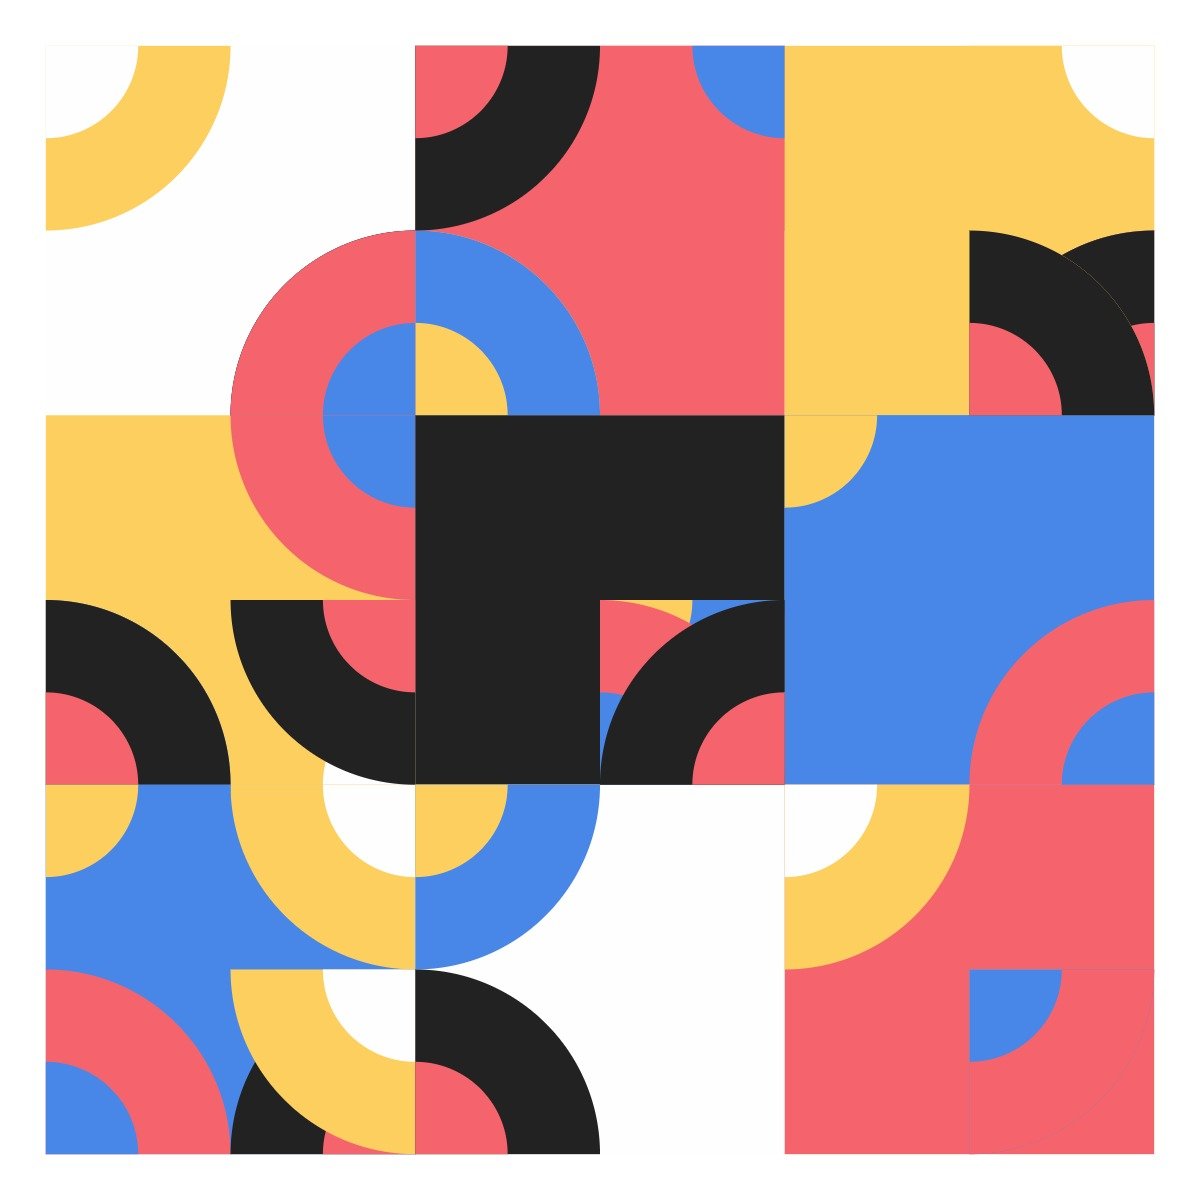
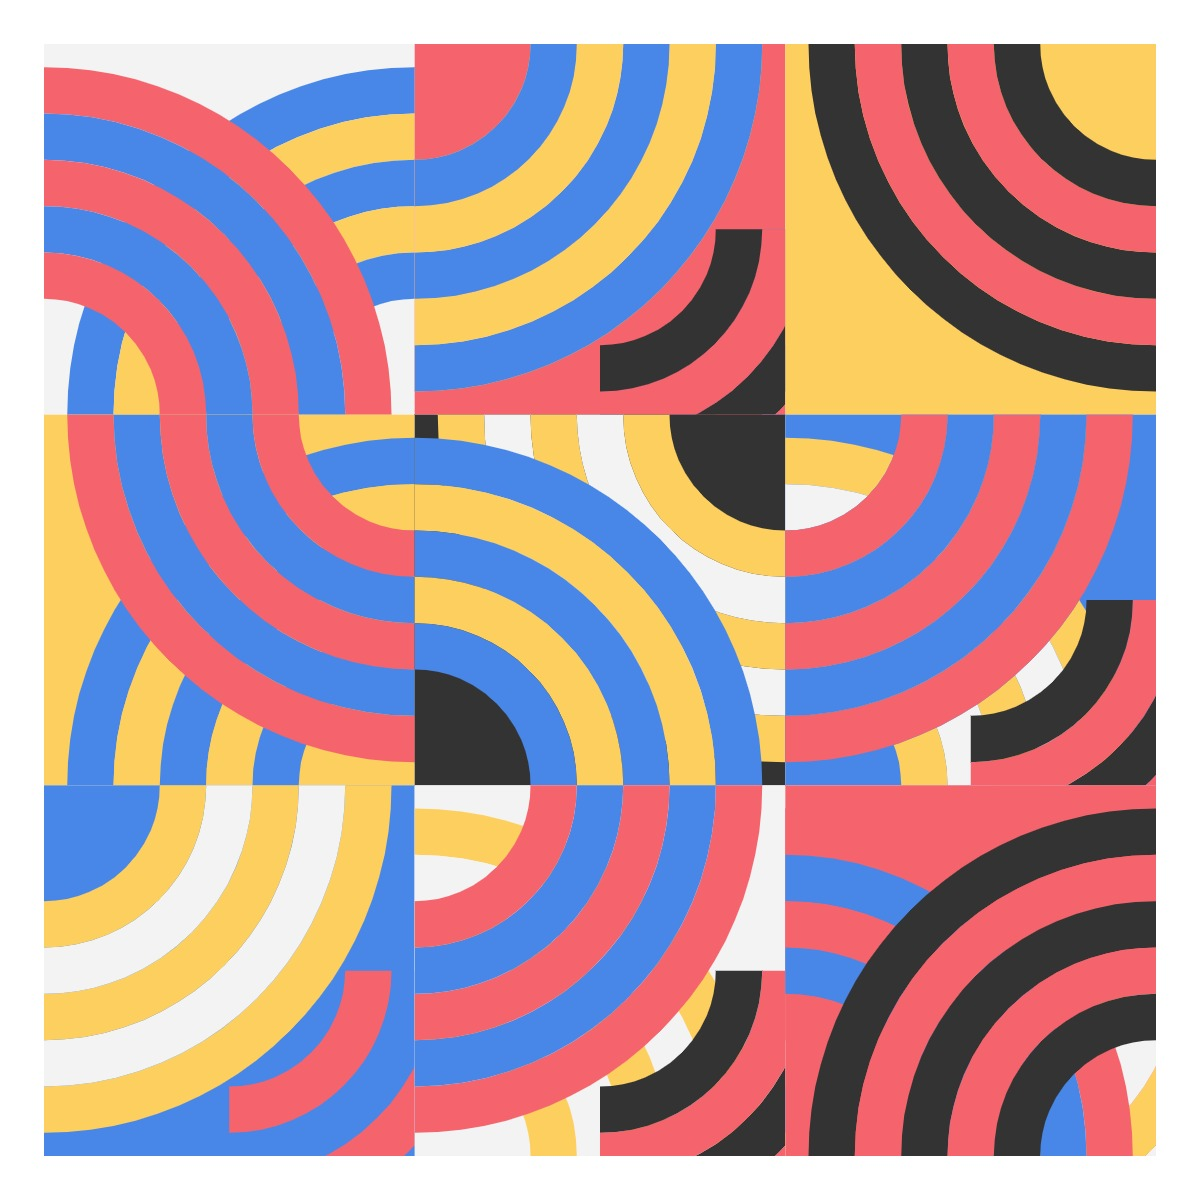
maybe final version

diff --git a/sketch/Bauhaus/index.js b/sketch/Bauhaus/index.js
@@ -6,7 +6,7 @@ import p5 from 'p5'
 const containerElement = document.getElementById('windowFrame')
 const loader = document.getElementById('loading')
 let canvas
-const colors = ['#fefefe', '#fdcf5f', '#4887e7', '#f5646d', '#222222']
+const colors = ['#f3f3f3', '#fdcf5f', '#4887e7', '#f5646d', '#333333']
 const sketch = (p5) => {
     sketch.init = () => {
         const mrg = p5.random(24, 48),
@@ -25,25 +25,29 @@ const sketch = (p5) => {
             ]
         p5.noStroke()
         p5.background('white')
+        p5.strokeWeight(cel / 8)
+        p5.strokeCap(p5.SQUARE)
 
         for (let a = 0; a < div; a++) {
             for (let b = 0; b < div; b++) {
                 const x = mrg + a * cel,
                     y = mrg + b * cel
-
+                p5.drawingContext.save()
                 p5.fill(colors[(a * div + b) % colors.length])
                 p5.rect(x, y, cel, cel)
+                p5.drawingContext.clip()
+                p5.push()
 
                 for (let c = 0; c < 4; c++) {
-                    const p = Math.floor(
-                        Math.random() * (a < 1 || b < 1 ? 4 : 8)
-                    )
+                    p5.noFill()
+
+                    const p = Math.floor(Math.random() * 8)
                     const r = (Math.PI / 2) * (p % 4)
 
-                    for (let d = 1; d < 3; d++) {
-                        const s = cel / d
+                    for (let d = 0.5; d < 3; d += 0.5) {
+                        const s = p5.map(d, 3, 0, cel / 2, cel * 2)
 
-                        p5.fill(colors[(c + (d % 2)) % colors.length])
+                        p5.stroke(colors[(c + ((d * 2) % 2)) % colors.length])
                         p5.arc(
                             x + cen[p][0],
                             y + cen[p][1],
@@ -54,6 +58,8 @@ const sketch = (p5) => {
                         )
                     }
                 }
+                p5.pop()
+                p5.drawingContext.restore()
             }
         }
     }
